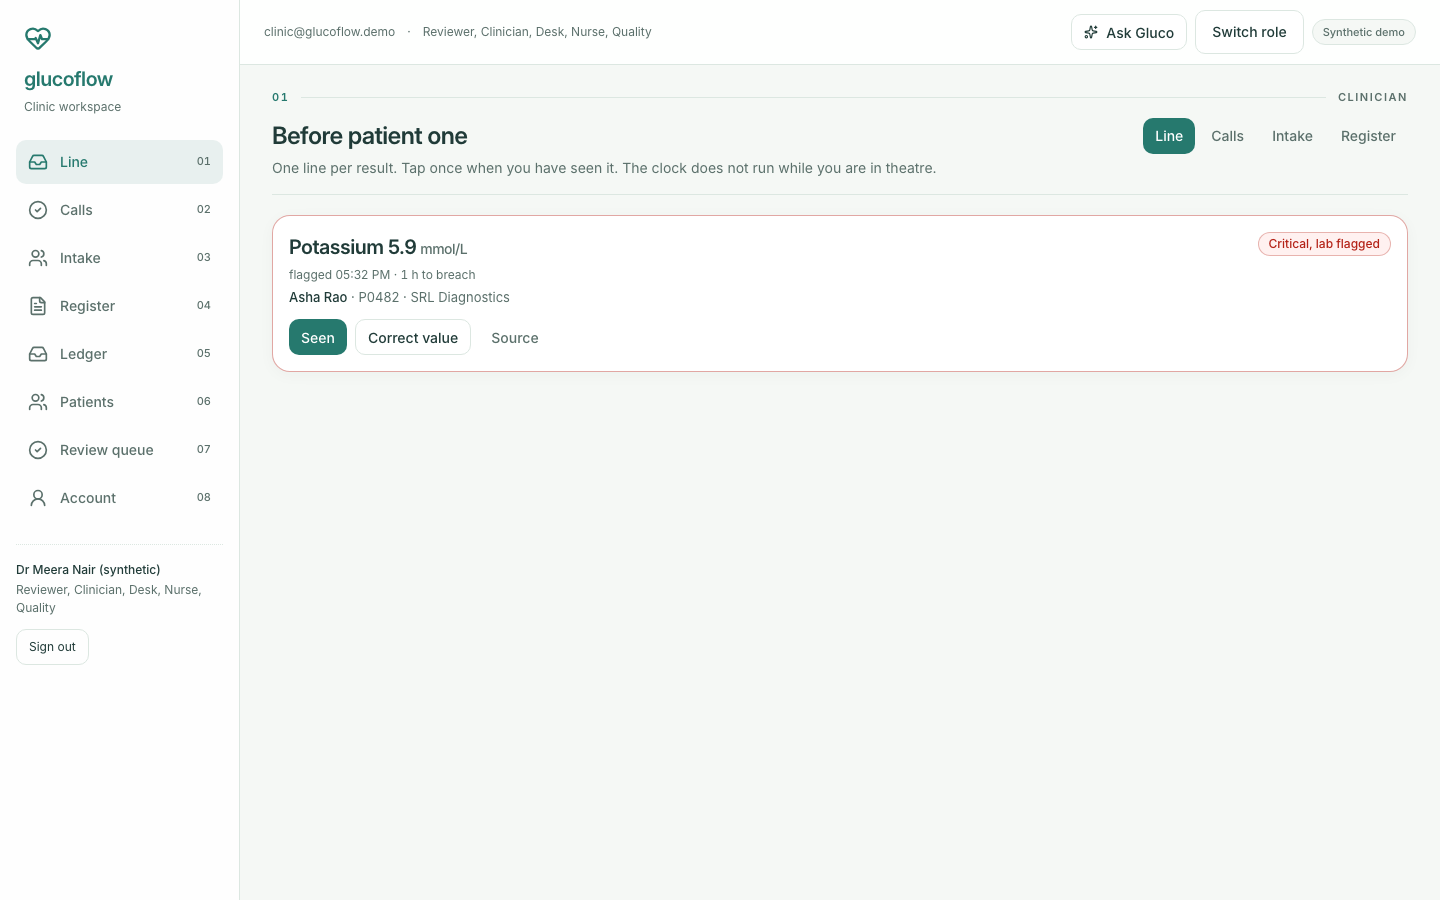
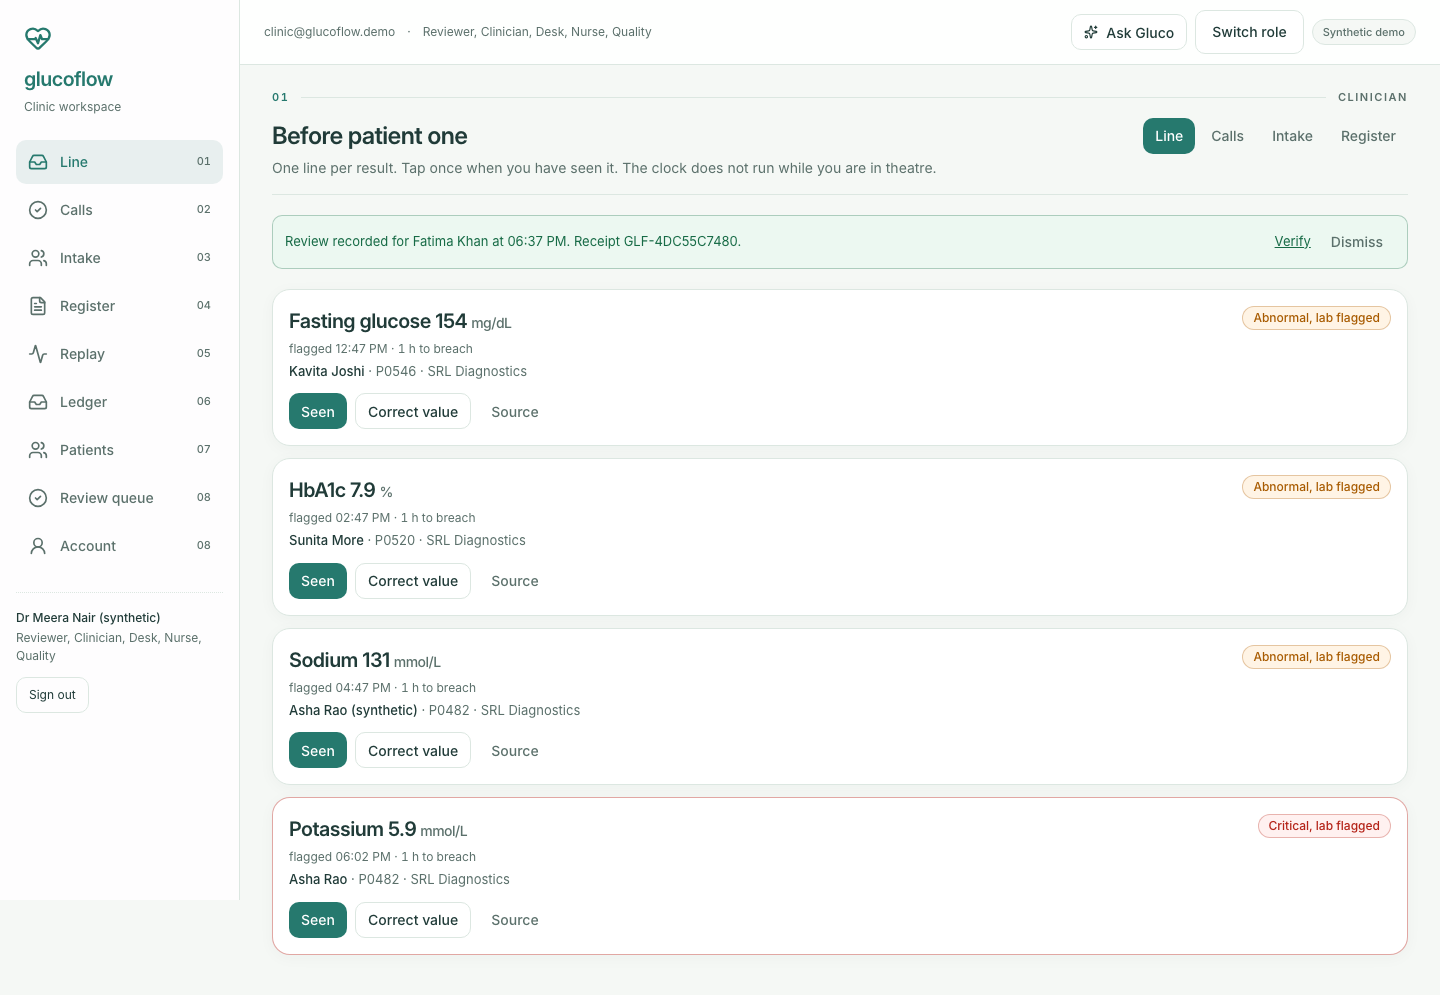
fix: critical results sort first and the final evidence

diff --git a/docs/research/2026-11-04-final/REVIEW-PACKET-R2.md b/docs/research/2026-11-04-final/REVIEW-PACKET-R2.md
@@ -40,7 +40,7 @@
 
 **API.** `app/apps/api/src/routes/obligations.ts` exposes eleven routes under `/api/v1/obligations`, with zod contracts and actor-scoped transactions.
 
-**Client.** `app/apps/client/src/features/clinic/obligations/` holds the four screens and the detail drawer. Capabilities are `canDesk`, `canNurse`, `canClinician`, `canQuality`. The nav and the landing route follow the role.
+**Client.** `app/apps/client/src/features/clinic/obligations/` holds the four screens and the detail drawer. Capabilities are `canDesk`, `canNurse`, `canClinician`, `canQuality`. The nav and the landing route follow the role. A direct URL to a role home lands on a refusal, not an empty state. The register exposes Close on an informed obligation, and the one tap returns a receipt banner with the time and code.
 
 **Evidence.** `app/scripts/replay.ts` computes a retrospective baseline and a deterministic queue simulation, writes `replay-data.json`, and the screen states the source and the assumptions. The shipped cohort is synthetic. The same script accepts `--input cohort.csv` for a real audit.
 
@@ -116,7 +116,7 @@ Write the memo to `docs/research/2026-11-04-final/panel-r2/<your-name>.md` and r
 
 ## 7. What the judges may assume
 
-- The local site is the current build, committed at `f7cc839` on top of `8a6d83a`.
+- The local site is the current tree, with migrations `039` to `042` applied.
 - The synthetic cohort is labelled. The product does not claim real patient data.
 - The tests are real and were run this session. The screenshots were taken this session.
 - The strategy documents in the same folder are context, not evidence of demand.
